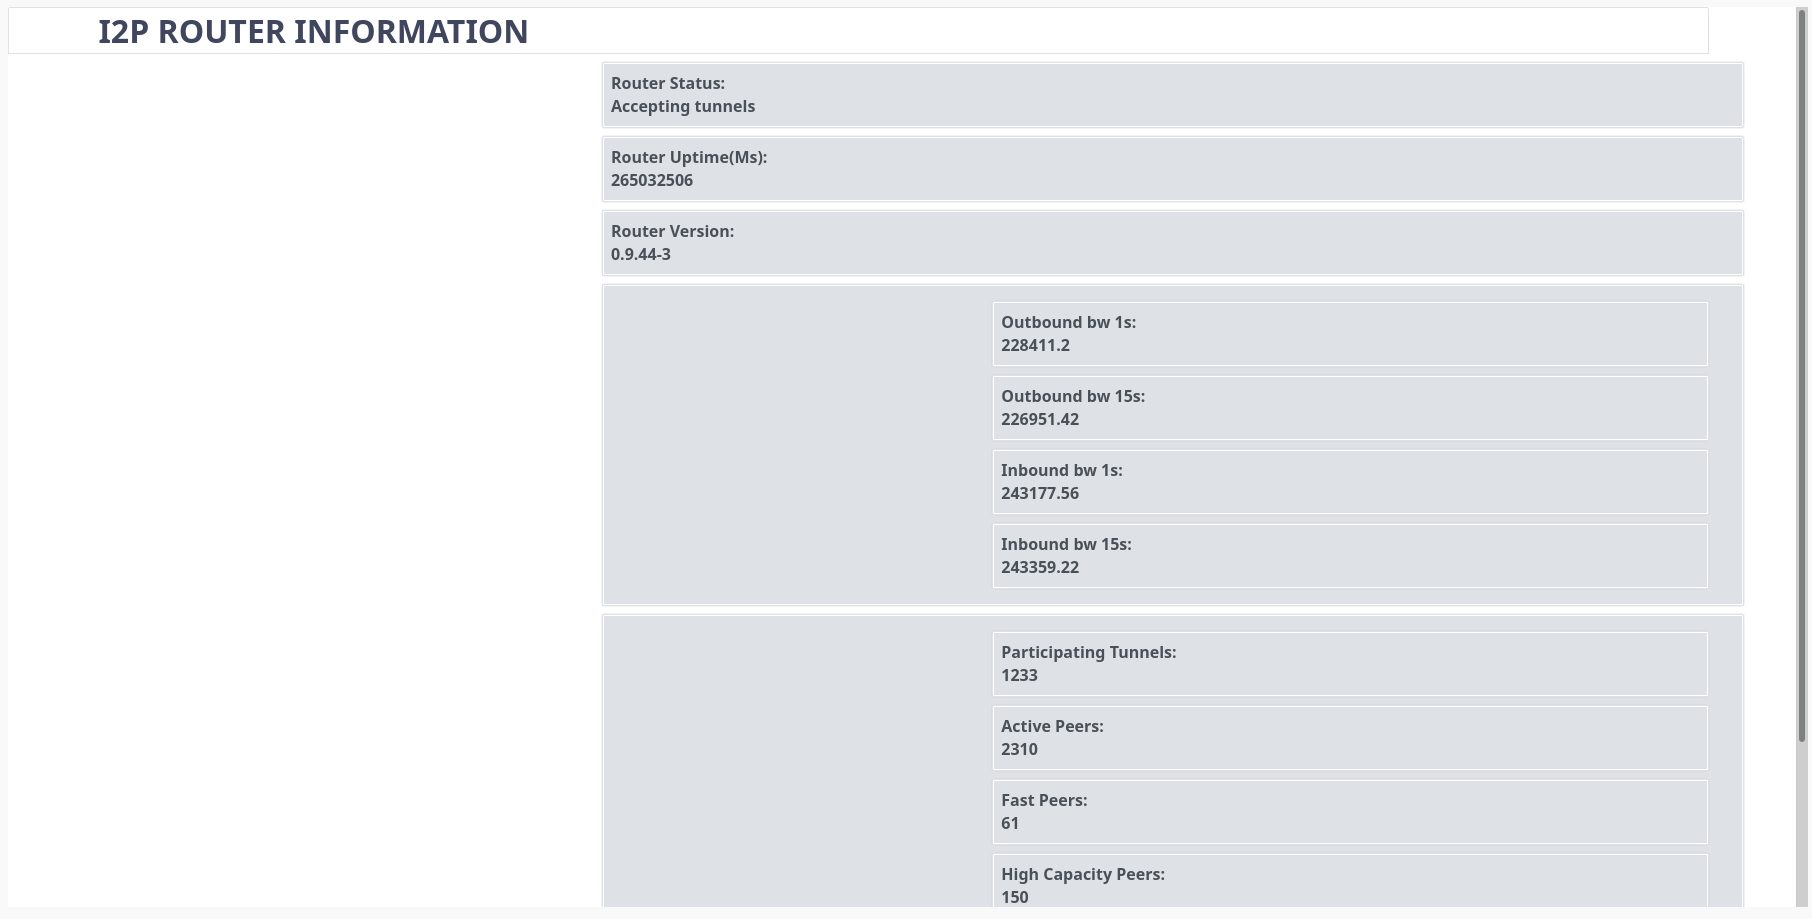
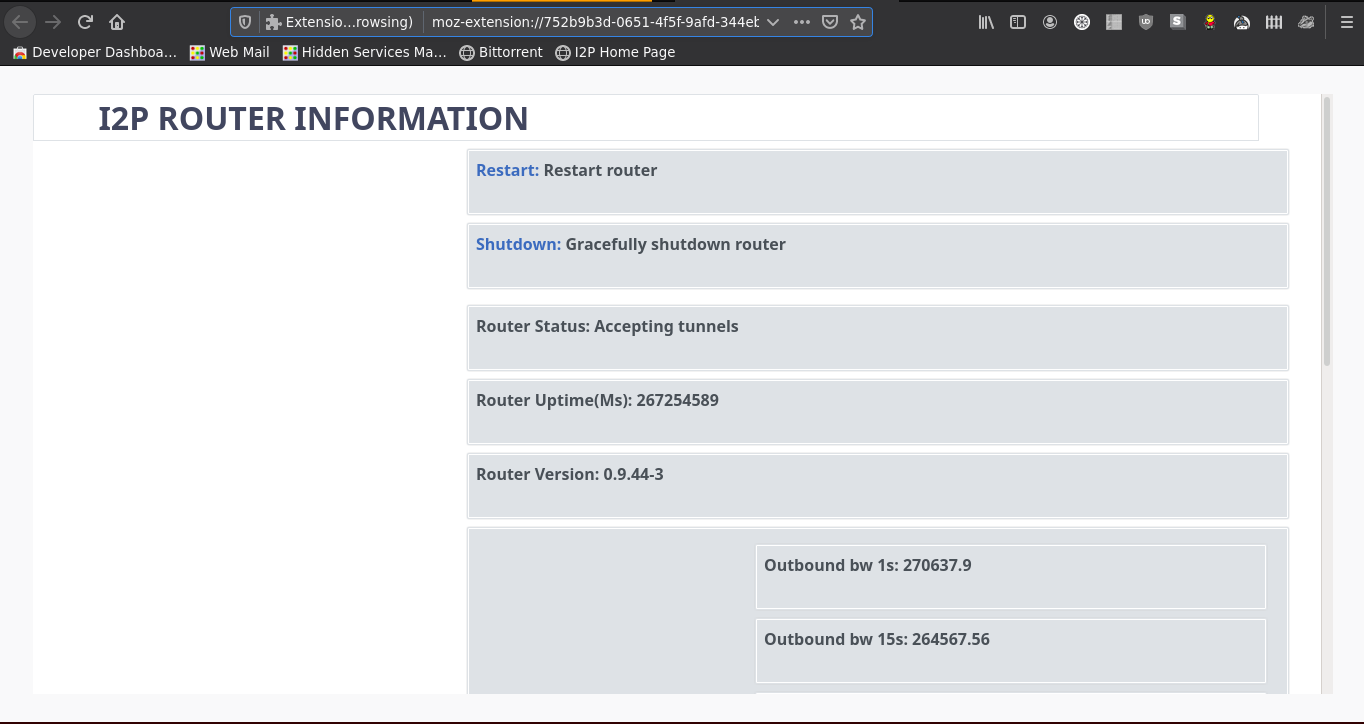
add functioning graceful shutdown/restart buttons to toopie.html

Changed region(s): [[0.0, 0.0, 1.0, 1.0], [0.5543, 0.8508, 0.739, 0.9116]]

diff --git a/i2pcontrol/i2pcontrol.js b/i2pcontrol/i2pcontrol.js
@@ -15,7 +15,7 @@ function makeid(length) {
 function send(message) {
   async function postData(url = "", data = {}) {
     // Default options are marked with *
-    console.log("(i2pcontrol)");
+    //console.log("(i2pcontrol)");
     let requestBody = JSON.stringify(data);
     let opts = {
       method: "POST", // *GET, POST, PUT, DELETE, etc.
@@ -59,7 +59,7 @@ function gettoken(authtoken) {
 }
 
 function Done(output) {
-  console.log("(i2pcontrol) I2PControl connection tested,", output);
+  //console.log("(i2pcontrol) I2PControl connection tested,", output);
   return output;
 }
 
@@ -83,7 +83,7 @@ function Echo(message) {
 
 function UpdateEchoElementByID(Query, ID) {
   function updateelement(update) {
-    console.log("(i2pcontrol)", update);
+    //console.log("(i2pcontrol)", update);
     document.getElementById(ID).innerText = update;
   }
   let net = Echo(Query);
@@ -134,7 +134,7 @@ function I2PControl(Query) {
 
 function UpdateI2PControlElementByID(Query, ID) {
   function updateelement(update) {
-    console.log("(i2pcontrol)", update);
+    //console.log("(i2pcontrol)", update);
     document.getElementById(ID).innerText = update;
   }
   let net = I2PControl(Query);
@@ -159,12 +159,12 @@ function RouterInfo(Query) {
 
 function UpdateRouterInfoElementByID(Query, ID) {
   function updateelement(update) {
-    console.log(
-      "(i2pcontrol)",
-      update.result[Query],
-      ID,
-      document.getElementById(ID)
-    );
+    //console.log(
+    //"(i2pcontrol)",
+    //update.result[Query],
+    //ID,
+    //document.getElementById(ID)
+    //);
     document.getElementById(ID).innerText = update.result[Query];
   }
   let net = RouterInfo(Query);
@@ -189,7 +189,7 @@ function RouterManager(Query) {
 
 function UpdateRouterManagerElementByID(Query, ID) {
   function updateelement(update) {
-    console.log("(i2pcontrol)", update);
+    //console.log("(i2pcontrol)", update);
     document.getElementById(ID).innerText = update;
   }
   let net = RouterManage(Query);
@@ -214,7 +214,7 @@ function NetworkSetting(Query) {
 
 function UpdateNetworkSettingElementByID(Query, ID) {
   function updateelement(update) {
-    console.log("(i2pcontrol)", update);
+    //console.log("(i2pcontrol)", update);
     document.getElementById(ID).innerText = update;
   }
   let net = NetworkSetting(Query);
@@ -268,13 +268,5 @@ function UpdateContents() {
   );
 }
 
-UpdateContents();
-
-const minutes = 0.125;
-const interval = minutes * 60 * 1000;
-
-setInterval(function() {
-  // catch all the errors.
-  UpdateContents().catch(console.log);
-}, interval); //var done = Echo(hello);
+//var done = Echo(hello);
 //done.then(Done);

diff --git a/toopie.html b/toopie.html
@@ -8,12 +8,10 @@
     <h1>I2P Router Information</h1>
 
     <ul>
-        <li>
-            <a id="label-router-restart" target="_blank">Restart:</a> <span id="router-restart">Restart router</span>
+        <li><button id="label-router-restart" target="_blank">Restart: <span id="router-restart">Gracefully restart router</span></button>
         </li>
 
-        <li>
-            <a id="label-router-shutdown" target="_blank">Shutdown:</a> <span id="router-shutdown">Gracefully shutdown router</span>
+        <li><button id="label-router-shutdown" target="_blank">Shutdown: <span id="router-shutdown">Gracefully shutdown router</span></button>
         </li>
     </ul>
 
@@ -56,6 +54,8 @@
             </ul>
         </li>
     </ul>
-    <script src="i2pcontrol/i2pcontrol.js"></script>
+    <script src="i2pcontrol/i2pcontrol.js"></script> 
+    <script src="info.js"></script> 
+    <script src="content.js"></script>
 </body>
 </html>

diff --git a/info.js b/info.js
@@ -71,6 +71,12 @@ document.addEventListener("click", clickEvent => {
       };
     }
     refreshIdentity();
+  } else if (clickEvent.target.id === "label-router-restart") {
+    console.log("attempting to initiate graceful restart");
+    RouterManager("RestartGraceful");
+  } else if (clickEvent.target.id === "label-router-shutdown") {
+    console.log("attempting to initiate graceful shutdown");
+    RouterManager("ShutdownGraceful");
   } else if (clickEvent.target.id === "search-submit") {
     console.log("attempting to create search tab");
     goSearch();

diff --git a/content.js b/content.js
@@ -50,3 +50,12 @@ fetch("http://proxy.i2p").then(myJson => {
   console.log("FETCH RESULT", myJson);
   contentUpdateById("proxy-check", "proxySuccessStatus");
 });
+
+UpdateContents();
+
+const minutes = 0.2;
+const interval = minutes * 60 * 1000;
+
+setInterval(function() {
+  UpdateContents();
+}, interval);
